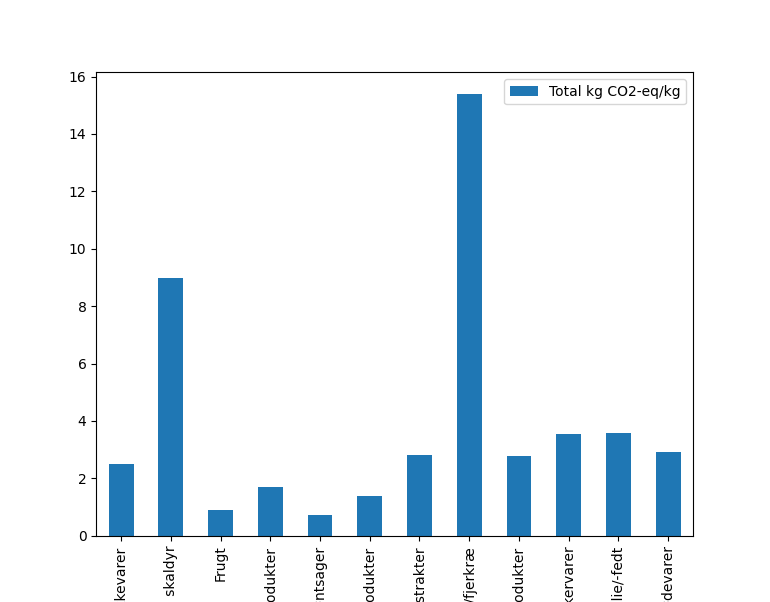
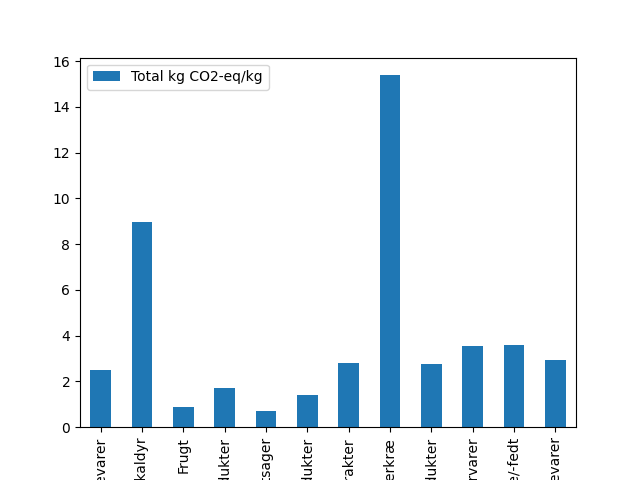
57

diff --git a/KlimaDatabase/plotting.py b/KlimaDatabase/plotting.py
@@ -49,10 +49,22 @@ print(averageTable.sort_values("Total kg CO2-eq/kg")) ## sorteret liste
 # PLOTS 
 #####################
 
-averageTable.plot.bar(y="Total kg CO2-eq/kg", bottom=1.6) ### mangler en x-alse... how to access??
+averageTable.plot.bar(y="Total kg CO2-eq/kg") ### mangler en x-alse... how to access??
 #plt.tight_layout() ### stopper cut of i bunden men fucker selve grafen. nogle labels er meget lange
-plt.show()    ### plottet bliver cuttet i bunden
+plt.savefig('KlimaDatabase/static/barplot_AverageCO2.png')
+#plt.show()    ### plottet bliver cuttet i bunden
 
+plt.close()
 
 print(averageTable.keys())
 
+
+
+#######################
+# PLOTS MatplotLIb
+#######################
+
+AverageCO2 = list(averageTable["Total kg CO2-eq/kg"])
+print(AverageCO2)
+
+##### skab liste med de 12 kategorier
